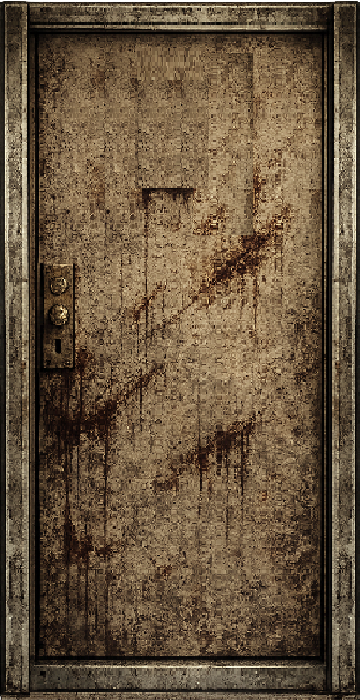
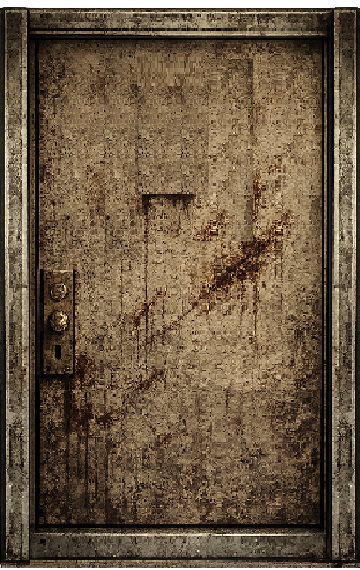
fix the door LOL and patient walking nicely YAY

diff --git a/EarlyBirdGetsDaWorm/Doors.cpp b/EarlyBirdGetsDaWorm/Doors.cpp
@@ -6,25 +6,24 @@
 // ==================================================
 
 // --- Door PNG pixel size (your exported art size) ---
-static constexpr float DOOR_PX_W = 360.0f;
-static constexpr float DOOR_PX_H = 760.0f;
-
-// --- Scale factor to match your hallway world scale ---
-static constexpr float DOOR_SCALE = 0.55f;
-
-// --- Door size in WORLD UNITS ---
-static constexpr float DOOR_W = DOOR_PX_W * DOOR_SCALE;
-static constexpr float DOOR_H = DOOR_PX_H * DOOR_SCALE;
+static constexpr float DOOR_W = DOOR_WIDTH;
+static constexpr float DOOR_H = DOOR_HEIGHT;
 
 // Door draw position (DrawTextureMesh uses CENTER position)
-static constexpr float DOOR_Y = -100.0f;
+static float ComputeDoorY()
+{
+    const float floorLineY = (-FLOOR_CENTER_Y) + (FLOOR_HEIGHT * 0.5f);
+    return floorLineY + (DOOR_H * 0.5f);
+}
 
-// --------------------------------------------------
+const float DOOR_Y = ComputeDoorY();
+
+// ==================================================
 // WINDOW PLACEMENT (normalized in door space)
 // u = 0.5 means centered horizontally
 // v = 0.5 means centered vertically
 // v > 0.5 moves it UP, v < 0.5 moves it DOWN
-// --------------------------------------------------
+// ==================================================
 static constexpr float WINDOW_CENTER_U = 0.5f;   // middle of door
 static constexpr float WINDOW_CENTER_V = 0.62f;  // slightly above middle
 
@@ -36,9 +35,9 @@ static constexpr float WINDOW_SIZE_V = 0.18f;
 static constexpr float WINDOW_W = DOOR_W * WINDOW_SIZE_U;
 static constexpr float WINDOW_H = DOOR_H * WINDOW_SIZE_V;
 
-// --------------------------------------------------
+// ==================================================
 // EVENT TRIGGER TUNING
-// --------------------------------------------------
+// ==================================================
 
 // When you are near a door, we roll chance to trigger an event.
 // Lower = rarer. 35% means: when cooldown allows, we frequently see events.
@@ -201,19 +200,9 @@ void Doors_Load()
     doorFontId = AEGfxCreateFont("Assets/buggy-font.ttf", 20);
 
     gDoorTex = AEGfxTextureLoad("Assets/Background/Door_bg.png");
-    if (!gDoorTex) std::cout << "FAILED to load Assets/Background/Door_bg.png\n";
-
-    // Window base always drawn
-    gWindowBaseTex = AEGfxTextureLoad("Assets/Door_Anomaly/Window_0.png");
-    if (!gWindowBaseTex) std::cout << "FAILED to load Assets/Door_Anomaly/Window_0.png\n";
-
-    // Handprint overlay (transparent PNG)
-    gHandprintTex = AEGfxTextureLoad("Assets/Door_Anomaly/Handprint.png");
-    if (!gHandprintTex) std::cout << "FAILED to load Assets/Door_Anomaly/Handprint.png\n";
-
-    // Shadow silhouette overlay (transparent PNG)
-    gShadowTex = AEGfxTextureLoad("Assets/Door_Anomaly/Shadow.png");
-    if (!gShadowTex) std::cout << "FAILED to load Assets/Door_Anomaly/Shadow.png\n";
+    gWindowBaseTex = AEGfxTextureLoad("Assets/Door_Anomaly/Window_0.png");  // Window base always drawn
+    gHandprintTex = AEGfxTextureLoad("Assets/Door_Anomaly/Handprint.png");  // Handprint overlay (transparent PNG)
+    gShadowTex = AEGfxTextureLoad("Assets/Door_Anomaly/Shadow.png");        // Shadow silhouette overlay (transparent PNG)
 }
 
 void Doors_Initialize()
@@ -468,8 +457,7 @@ void Doors_Draw(f32 camX, s8 floorNum, f32 textXoffset, f32 textY, bool dementia
             const float textNDC_X = (doorX / SCREEN_WIDTH_HALF) - textXoffset;
             const float textNDC_Y = textY / SCREEN_HEIGHT_HALF;
 
-            AEGfxPrint(doorFontId, textBuffer, textNDC_X, textNDC_Y,
-                1.0f, 1.0f, 0.0f, 0.0f, 1.0f);
+            AEGfxPrint(doorFontId, textBuffer, textNDC_X, textNDC_Y, 1.0f, 1.0f, 0.0f, 0.0f, 1.0f);
         }
     }
 }

diff --git a/EarlyBirdGetsDaWorm/Player.cpp b/EarlyBirdGetsDaWorm/Player.cpp
@@ -2,8 +2,6 @@
 
 /*************************************** VARIABLES ***************************************/
 static constexpr float FRAME_TIME = 0.4f;  // walking speed (time per frame)
-static constexpr float PLAYER_W = 220.0f;
-static constexpr float PLAYER_H = 220.0f;
 
 static AEGfxVertexList* gSpriteMesh = nullptr;
 static AEGfxTexture* gHumanTex[2]{};
@@ -178,8 +176,8 @@ void Player_GetTargetRoom(s8& floor, s8& door) {
     }
 }
 
-float Player_GetWidth() { return PLAYER_W; }
-float Player_GetHeight() { return PLAYER_H; }
+float Player_GetWidth()  { return PLAYER_WIDTH; }
+float Player_GetHeight() { return PLAYER_HEIGHT; }
 
 /***************************************** LOAD ******************************************/
 void Player_Load()
@@ -199,8 +197,8 @@ void Player_Load()
     gScaryTex[0] = AEGfxTextureLoad("Assets/Player/scary player_1.png");
     gScaryTex[1] = AEGfxTextureLoad("Assets/Player/scary player_2.png");
 
-    gNoPatientTex[0] = AEGfxTextureLoad("Assets/Player/nurse.png");
-    gNoPatientTex[1] = AEGfxTextureLoad("Assets/Player/nurse.png");
+    gNoPatientTex[0] = AEGfxTextureLoad("Assets/Player/nurse_1.png");
+    gNoPatientTex[1] = AEGfxTextureLoad("Assets/Player/nurse_2.png");
 }
 
 /***************************************** UPDATE ****************************************/
@@ -228,8 +226,8 @@ void Player_Draw(float x, float y)
 
     AEMtx33 scale, trans, transform;
     float widthMultiplier = Patient_PickedUp ? 1.0f : 0.3f;
-    float sx = (PLAYER_W * widthMultiplier)*(float)gFacing;   // // 1 = normal, -1 = flipped
-    float sy = PLAYER_H;
+    float sx = (PLAYER_WIDTH * widthMultiplier)*(float)gFacing;   // // 1 = normal, -1 = flipped
+    float sy = PLAYER_HEIGHT;
     
 
 	// build transform matrix

diff --git a/EarlyBirdGetsDaWorm/Game.cpp b/EarlyBirdGetsDaWorm/Game.cpp
@@ -216,11 +216,11 @@ void Game_Draw()
 
 	// Background
 	if (floorNum >= 1) AEGfxSetBackgroundColor(1.0f, 1.0f, 1.0f);
-	// Floor Lines
-	DrawSquareMesh(squareMesh, 0.0f, 650.0f, 1600.0f, 800.0f, COLOR_BLACK);
-	DrawSquareMesh(squareMesh, 0.0f, -650.0f, 1600.0f, 800.0f, COLOR_BLACK);
 
-	Doors_Draw(camX, floorNum, textXoffset, textY, dementia);
+	// Floor Lines
+	DrawSquareMesh(squareMesh, 0.0f,  FLOOR_CENTER_Y, 1600.0f, FLOOR_HEIGHT, COLOR_BLACK);
+	DrawSquareMesh(squareMesh, 0.0f, -FLOOR_CENTER_Y, 1600.0f, FLOOR_HEIGHT, COLOR_BLACK);
+
     // Draw Doors
     Doors_Draw(camX, floorNum, textXoffset, textY, dementia);
 
@@ -233,8 +233,8 @@ void Game_Draw()
 
 	// End Lift
 	if ((camX < -((NUM_DOORS - 2) * DIST_BETWEEN_DOORS)) && !dementia) {
-		float endOffset = (NUM_DOORS + 2) * DIST_BETWEEN_DOORS;
-		float liftOffset = (NUM_DOORS + 1) * DIST_BETWEEN_DOORS;
+		float endOffset		= (NUM_DOORS + 2) * DIST_BETWEEN_DOORS;
+		float liftOffset	= (NUM_DOORS + 1) * DIST_BETWEEN_DOORS;
 		DrawSquareMesh(squareMesh, endOffset + camX + 100.0f, 0.0f, 800.0f, 900.0f, COLOR_BLACK);
 		DrawSquareMesh(squareMesh, liftOffset + camX, -100.0f, LIFT_WIDTH, LIFT_HEIGHT, COLOR_LIFT_GREY);
 		if (floorNum != 0) DrawSquareMesh(squareMesh, endOffset + camX + 200.0f, 0.0f, 800.0f, 900.0f, COLOR_NIGHT_BLUE);

diff --git a/EarlyBirdGetsDaWorm/pch.hpp b/EarlyBirdGetsDaWorm/pch.hpp
@@ -49,6 +49,8 @@
 // --- MACROS --- //
 // Dimensions & Settings
 #define PLAYER_SPEED        400.0f
+#define PLAYER_WIDTH        220.0f
+#define PLAYER_HEIGHT       200.0f
 #define DOOR_WIDTH          200.0f
 #define DOOR_HEIGHT         300.0f
 #define DIST_BETWEEN_DOORS  600.0f
@@ -58,6 +60,8 @@
 #define NUM_DOORS           10
 #define SCREEN_WIDTH_HALF   800.0f
 #define SCREEN_HEIGHT_HALF  450.0f
+#define FLOOR_CENTER_Y		650.0f
+#define FLOOR_HEIGHT		800.0f
 
 const int SCREEN_W = 1600;
 const int SCREEN_H = 900;
